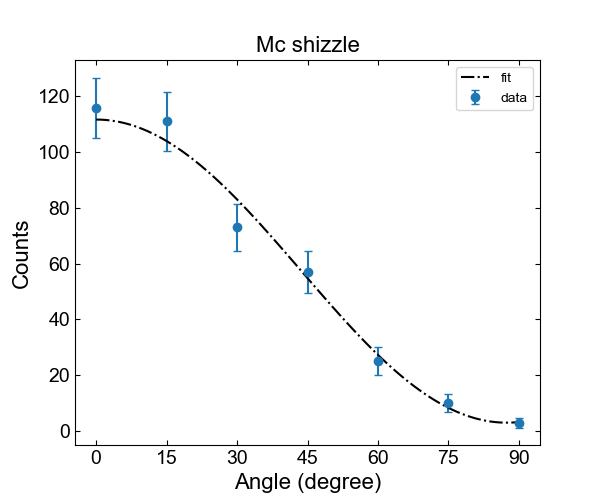
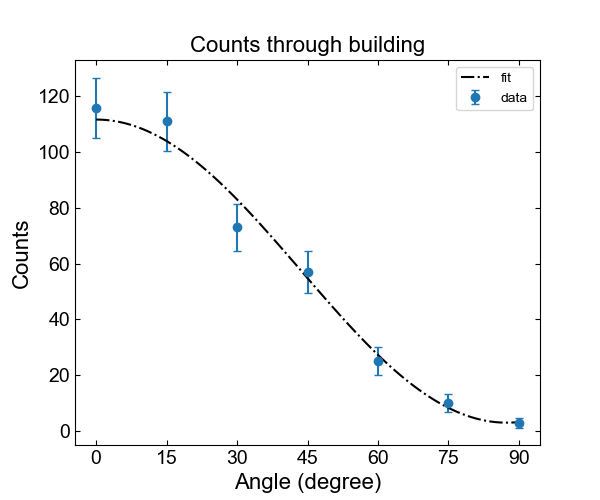
angle plots

Changed region(s): [[0.3, 0.06, 0.72, 0.12]]

diff --git a/Databehandling_vinkler2.py b/Databehandling_vinkler2.py
@@ -105,5 +105,6 @@ ax.set_ylabel("Counts")
 ax.set_xlabel("Angle (degree)")
 ax.set_xticks(ticks = np.linspace(0, 90, 7))
 ax.set_title("Counts through parkinglot")
+fig.savefig("angles2")
 plt.show()
 

diff --git a/Databehandling_vinkler.py b/Databehandling_vinkler.py
@@ -105,5 +105,6 @@ ax.set_ylabel("Counts")
 ax.set_xlabel("Angle (degree)")
 ax.set_xticks(ticks = np.linspace(0, 90, 7))
 ax.set_title("Counts through building")
+fig.savefig("angles")
 plt.show()
 
